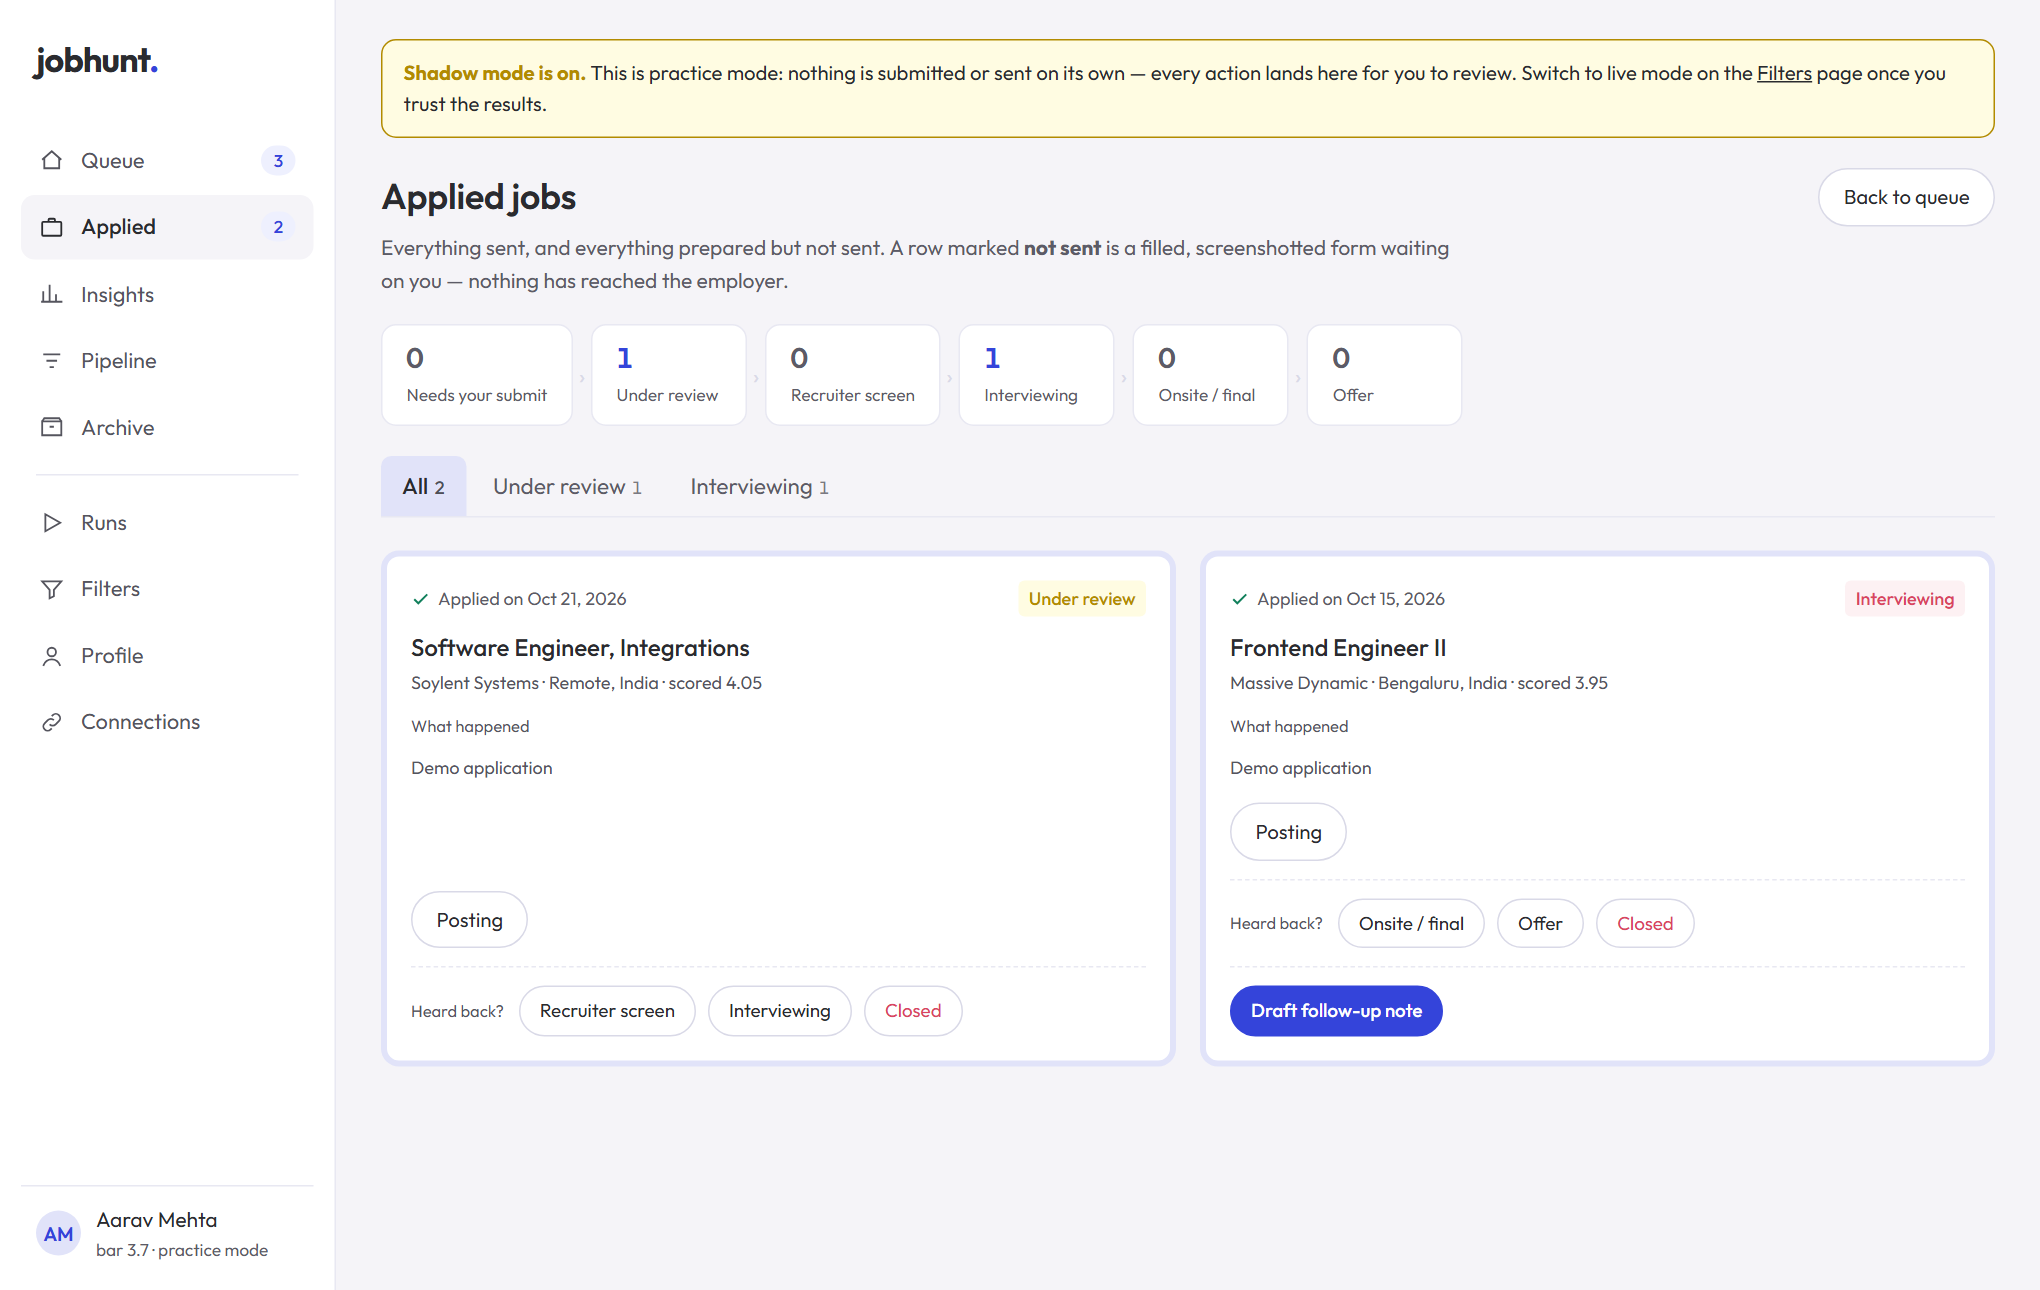
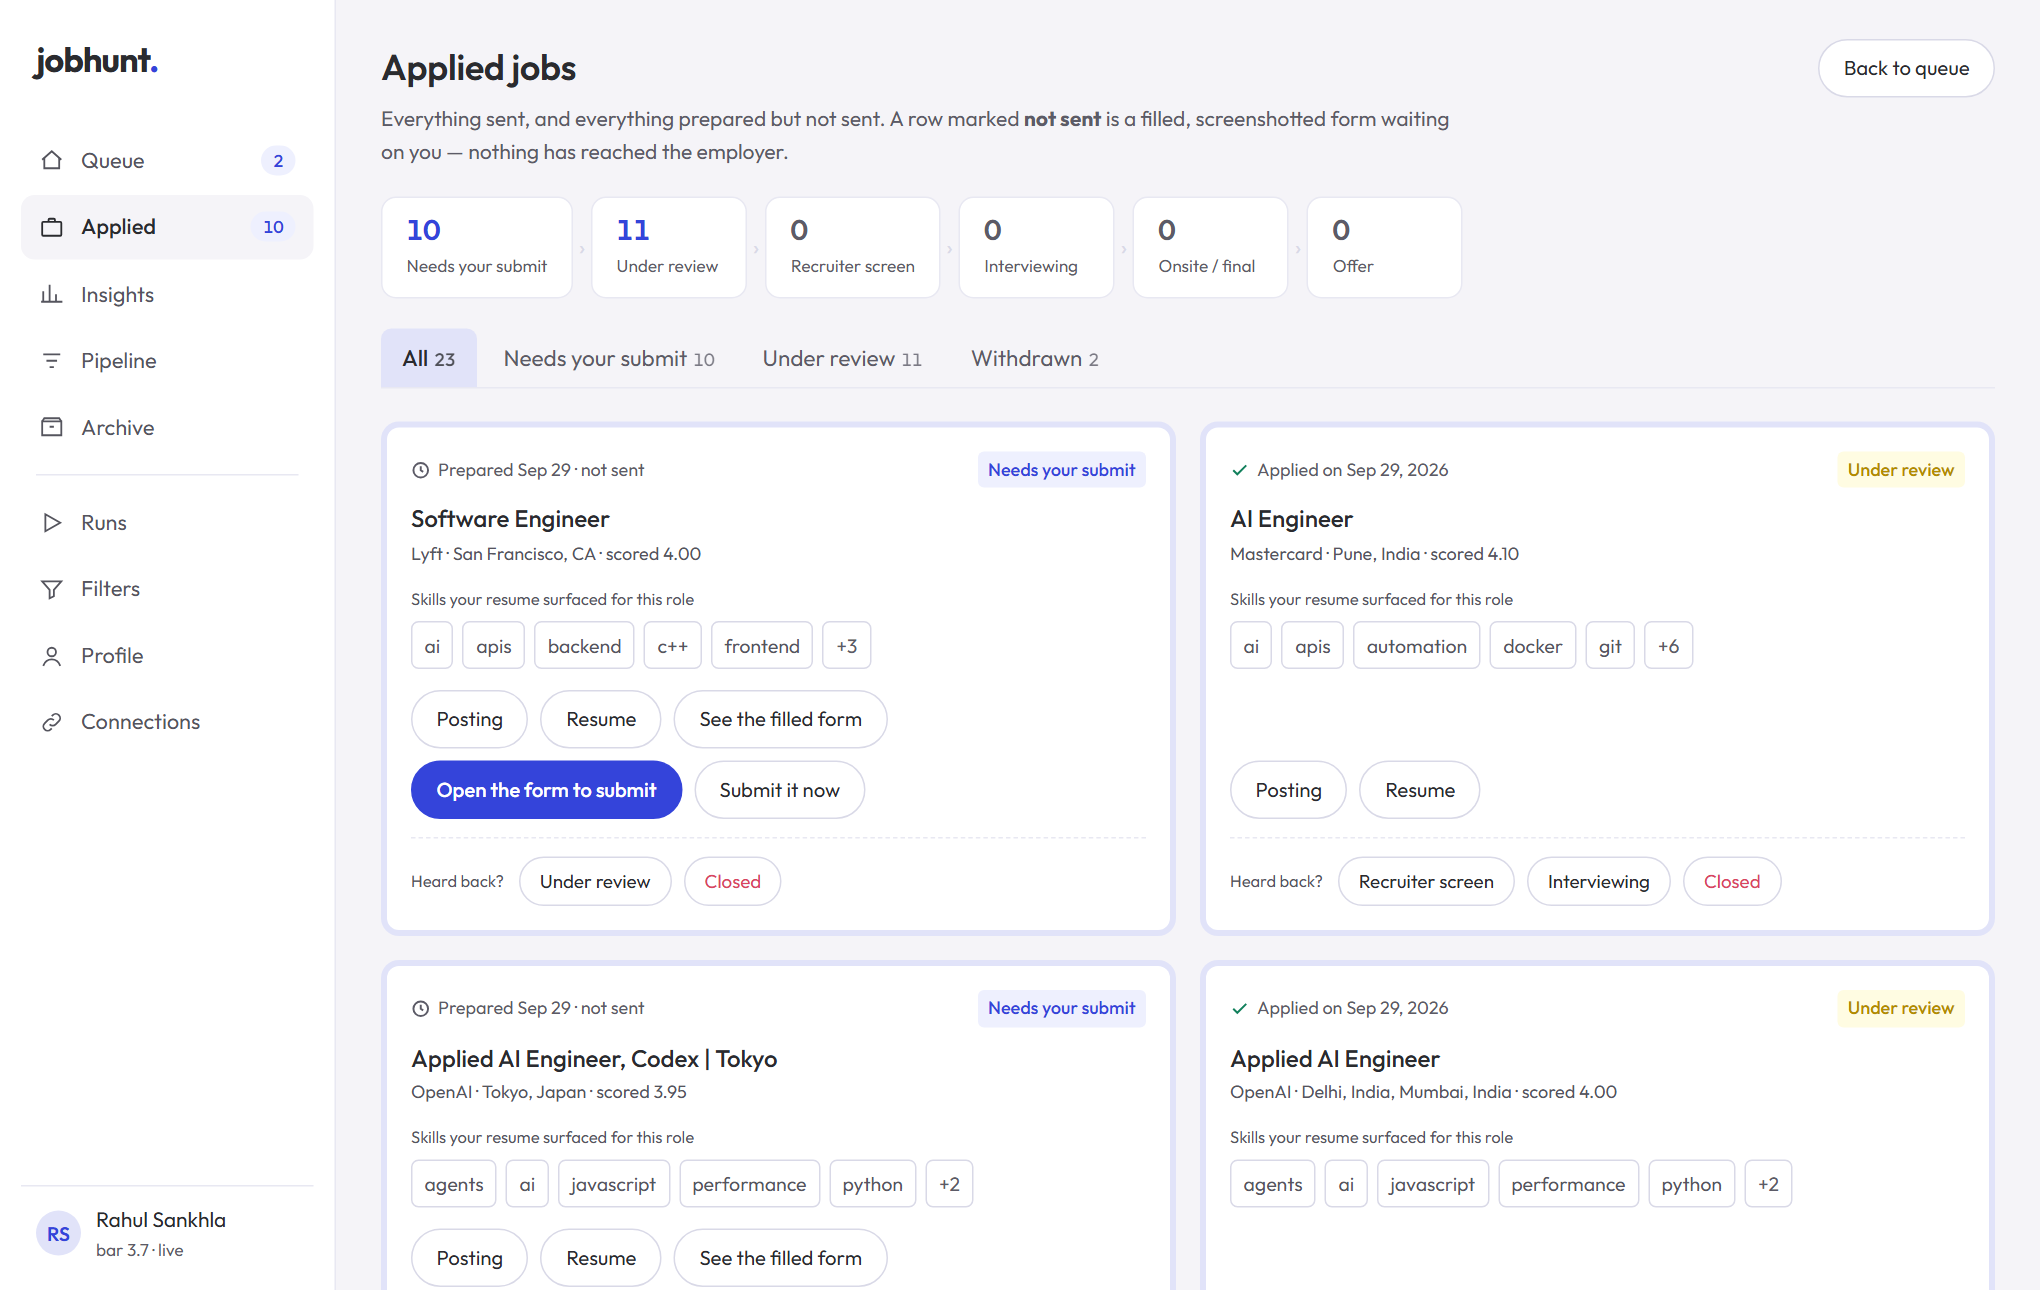
Use real dashboard screenshots in the README and starter page
Taken from a live-mode job search with Claude Code as the AI engine.

diff --git a/docs/index.html b/docs/index.html
@@ -95,11 +95,12 @@ python -m venv .venv
     <figure><img src="screenshots/job.png" alt="Job detail with score breakdown"><figcaption>Every score explained.</figcaption></figure>
     <figure><img src="screenshots/applied.png" alt="Applied jobs"><figcaption>Every application and where it stands.</figcaption></figure>
     <figure><img src="screenshots/filters.png" alt="Job filters"><figcaption>All settings from the UI.</figcaption></figure>
-    <figure><img src="screenshots/setup.png" alt="Profile setup"><figcaption>Fill your profile once.</figcaption></figure>
+    <figure><img src="screenshots/insights.png" alt="Insights funnel"><figcaption>The funnel, and what converts.</figcaption></figure>
+    <figure><img src="screenshots/runs.png" alt="Runs"><figcaption>Run on demand or on a daily schedule.</figcaption></figure>
   </div>
 
   <footer>
-    Your profile, resume, applications and sessions stay on your machine. The screenshots use made-up people and companies.
+    Your profile, resume, applications and sessions stay on your machine. Screenshots are from a real job search in live mode.
     MIT licensed · <a href="https://github.com/RahulSankhla312/job-hunt-agents">github.com/RahulSankhla312/job-hunt-agents</a>
   </footer>
 </div>

diff --git a/README.md b/README.md
@@ -22,7 +22,7 @@ Your resume, profile, applications and account sessions stay on your machine.
 The only things sent anywhere are the AI calls (to Claude) and the job-board
 and application-form requests themselves.
 
-![The Queue: jobs that passed your filters, scored for fit, waiting for your decision](docs/screenshots/queue.png)
+![The Queue: real jobs that passed the filters, scored for fit by the AI, waiting for a decision](docs/screenshots/queue.png)
 
 **Try it in two minutes, no setup:** `python run.py demo` opens the dashboard with
 a made-up candidate and sample jobs. [Details below.](#try-the-demo-first)
@@ -56,11 +56,14 @@ a made-up candidate and sample jobs. [Details below.](#try-the-demo-first)
 | | |
 |---|---|
 | ![Job detail with the score breakdown](docs/screenshots/job.png) | ![Applied jobs and where each one stands](docs/screenshots/applied.png) |
-| **Every score explained**: skill overlap, level, pay confidence, eligibility. | **Applied**: every application and where it stands, from review to offer. |
-| ![Job filters](docs/screenshots/filters.png) | ![Profile setup](docs/screenshots/setup.png) |
-| **Filters**: pay floor, titles, score bar, sources, schedule. All from the UI. | **Profile**: import your resume PDF once; every form answer comes from here. |
+| **Every score explained**: skill overlap, level, pay confidence, eligibility, and the resume sent. | **Applied**: every application and where it stands, from prepared to offer. |
+| ![Insights: the funnel and what converts](docs/screenshots/insights.png) | ![Runs: find, apply, re-filter and the daily schedule](docs/screenshots/runs.png) |
+| **Insights**: the funnel from 21k sourced jobs down to applications, and reply rates by source. | **Runs**: start a run, re-apply filters, rebuild resumes, or turn on the daily schedule. |
+| ![Job filters](docs/screenshots/filters.png) | |
+| **Filters**: pay floor, titles, score bar, sources, resume mode and live/practice mode, all from the UI. | |
 
-All screenshots come from the built-in demo: the candidate and every company are made up.
+These screenshots are from a real job search: live mode, Claude Code as the AI engine.
+Want to look around before setting anything up? [Try the demo.](#try-the-demo-first)
 
 ---
 
